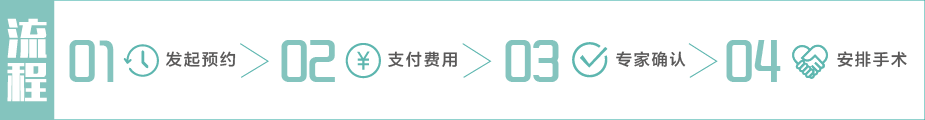
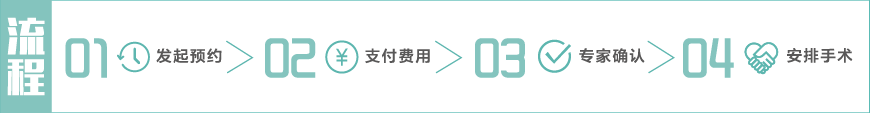
页面优化

diff --git a/themes/v5/css/hospital.css b/themes/v5/css/hospital.css
@@ -35,19 +35,20 @@
 .hinfo .more-desc>a,.hinfo .retract>a{color: #EFA429;}
 .hinfo .more-desc .fa,.hinfo .retract .fa{font-size: 18px;}
 .hinfo .decs-last,.hinfo .retract{display: none;}
-.container-title{font-size:24px;font-weight:bold;}
+.container-title{font-size:24px;}
 .dept-describe{border:1px solid #efefef;padding:10px;}
 .departments{padding: 10px;}
 .departments ul>li{float: right;}
 .departments .header{font-size: 24px;margin-top: 3px;color: #19aea5;}
 .departments ul>li>a{border-radius: 0;border: 1px solid #19aea5;margin: 0;min-width: 7em;text-align: center;}
 .departments ul>li>a:hover{border-color: #19aea5;background-color: #e0f1f2;}
-.departments ul>li.active>a,.departments ul>li.active>a:hover,.departments ul>li.active>a:focus{background-color: #19aea5;color: #fff;border-color: #19aea5;}
+.departments ul>li.active>a,.departments ul>li.active>a:hover,.departments ul>li.active>a:focus{background-color: #5ebfb8;color: #fff;border-color: #19aea5;}
 .departments .dept{border: 1px solid #ddd;padding: 5px 10px 10px;}
 .departments .tab-content .btn{margin-top: -10px;}
 .nav-tabs{border:none;}
 .divide-color-ddd{border-top:1px solid #ddd;}
-.dept-title{font-size:18px;font-weight:bold;}
+.dept-title{font-size:18px;}
+.flowChart{border: 1px solid #5ebfb8;padding: 10px 0 0}
 /*.departments{padding: 10px;}
 .departments h4{padding: 5px 25px;background-color: #b1dcd6;color: #19aea5;}
 .dept>a:hover{text-decoration: underline;color: #19aea5;}

diff --git a/themes/v5/js/home.js b/themes/v5/js/home.js
@@ -49,12 +49,12 @@ function setDoctorHtml(data, urlDoctorView) {
             var doctors = disease_category[x];
             for (var i = 0; i < doctors.length; i++) {
                 var doctor = doctors[i];
-                var contractedImg = doctor.isContracted == 1 ? '<div class="pull-right contracted-img"></div>' : '';
+                var contractedImg = doctor.isContracted == 1 ? '<div class="contracted-img"></div>' : '';
                 innerHtml += '<div class="col-md-3 " ><a target="_blank" href="' + urlDoctorView + doctor.id + '">' +
                         '<div class="expInfo text-center bg-white explist-border">' +
                         contractedImg +
                         '<div><img class="img100" src="' + doctor.imageUrl + '"/></div>' +
-                        '<div class="expName color-black strong">' + doctor.name + '</div>' +
+                        '<div class="expName color-black">' + doctor.name + '</div>' +
                         '<div class="expTitle">' + doctor.mTitle + ' ' + doctor.aTitle + '</div>' +
                         '<div class="expHospital mt30">' + doctor.hpName + '</div>' +
                         '<div class="mt10 color-black mb50">' + doctor.hpDeptName + '</div>' +

diff --git a/themes/v5/css/searchdoctor.css b/themes/v5/css/searchdoctor.css
@@ -1,12 +1,12 @@
 .img100{width: 100px;height: 100px;display: block;margin: 10px auto;border: 1px solid #e4e4e4;border-radius: 50%;}
 .department-name{background-color: #19aea5;height:65px;line-height:65px;font-size:16px;color: #fff;}
-.city-sick-title{border-left:5px solid #19aea5;padding-bottom: 3px;line-height:1.5em;padding-left: 5px;}
+.city-sick-title{border-left:5px solid #19aea5;line-height:1.5em;padding-left: 5px;}
 .city-sick-title a{margin-right:20px;display: inline-block;}
 .city-sick-title a:hover{cursor: pointer;}
 .disease-list{margin-top: 17px;}
 .border-gray{border:1px solid #ddd;}
 .color-gray{color:#9f9fa0;}
-.expert-list{padding:0px 5px 10px 5px;}
+.expert-list{padding:0px 10px 10px 10px;}
 .department-list{padding:0 15px 20px;}
 .department-list .department{padding-left: 10px;margin-top: 20px;}
 .department-list .department .dept-header{font-size: 15px;margin-bottom: 5px;}

diff --git a/themes/v5/css/home.css b/themes/v5/css/home.css
@@ -36,7 +36,8 @@
 .expert .nav-tabs>li>a,.expert .nav-tabs>li>a:hover{background-color: #efefef;}
 .expert .nav-tabs>li{width: 16.66666667%;}
 .expert .nav-tabs>li>a{margin-right: 0;}
-.contracted-img {margin-top: 40px;margin-right: -12px;width: 48px;height: 52px;background-image: url(../images/doctor/signDoctor.png);background-repeat: no-repeat;}
+.expert .expName{font-size: 15px;}
+.contracted-img {position: absolute;margin-top: 40px;right: 7px;width: 48px;height: 52px;background-image: url(../images/doctor/signDoctor.png);background-repeat: no-repeat;}
 .title{background:url(../images/home/home_wire.png) no-repeat;background-position:center 40px;margin-top:40px;}
 .title .title-lg{font-size:45px;color:#3973ac;letter-spacing:8px;}
 .title .title-sm{letter-spacing:10px;color:#3973ac;margin-top:-4px;}

diff --git a/themes/v5/css/user.css b/themes/v5/css/user.css
@@ -34,7 +34,9 @@ a.color-status:hover{cursor: pointer;}
 .bookinglist .table>thead>tr>td{line-height: 1.5em;padding: 10px 0;}
 .bookinglist .table>tbody>tr{border-bottom: 1px solid #eeefef;}
 .bookinglist .table>tbody>tr>td{vertical-align: middle;}
-@media (min-width: 768px){.modal-dialog.modal-sm {margin: 200px auto 30px;}}
+@media (min-width: 768px){#cancelOrder .modal-dialog.modal-sm {margin: 200px auto 30px;width: 400px;}}
+#cancelOrder .modal-dialog.modal-sm .modal-body{padding-bottom: 40px;}
+.pad8{padding: 10px 8px!important;}
 //.bookinglist .table>tbody>tr>td a{color: #31708f;}
 /**** bookingView ****/
 .bookingView .user-header{min-height:113px;padding-top:10px;}

diff --git a/themes/v5/css/main.css b/themes/v5/css/main.css
@@ -33,6 +33,7 @@ body {color: #333;letter-spacing: 1px;line-height: 1.5;font-size: 14px;font-fami
 .pl100{padding-left: 100px;}
 .pr0{padding-right: 0;}
 .pr10{padding-right: 10px;}
+.pr15{padding-right: 15px;}
 .pr20{padding-right: 20px;}
 .pr30{padding-right: 30px;}
 .pr40{padding-right: 40px;}

diff --git a/themes/v5/css/operation.css b/themes/v5/css/operation.css
@@ -49,3 +49,4 @@ strong{color:#333;}
 .ml10{margin-left:10px;}
 .zhitongcheBookingBtn{border-radius: 5px;}
 a:hover>.bg-green-5ebfb7,.zhitongcheBookingBtn:hover{background-color: rgba(94,191,184,0.7);}
+.ml-50{margin-left: -50px;}

diff --git a/themes/v5/css/mingyizhuyi.css b/themes/v5/css/mingyizhuyi.css
@@ -28,6 +28,7 @@
 .h400{height:400px;}
 .color-white{color:#fff;}
 .mingyizhuyi-content{line-height:34px;}
+.line2em{line-height: 2em;}
 .x {
     width: 70px;
     height: 70px;

diff --git a/themes/v5/views/hospital/view.php b/themes/v5/views/hospital/view.php
@@ -112,10 +112,10 @@ $this->htmlMetaDescription = mb_strlen($desc) > 70 ? mb_substr($desc, 0, 70, 'ut
                                 }
                                 echo '<div role="tabpanel" class="tab-pane ' . $active . '" id="' . $j . '">';
                                 foreach ($dept as $faculty) {
-                                    $description = $faculty->description =='' ? '暂无信息' : $faculty->description;
+                                    $description = $faculty->description == '' ? '暂无信息' : $faculty->description;
                                     echo '<div class="mt20 dept-describe">' .
                                     '<div class="dept-title">' . $faculty->name . '<div class="pull-right mt5"><button class="bookingBtn btn btn-yes pr30 pl30" data-hospital="' . $hName . '" data-dept="' . $faculty->name . '" data-hospitalid="' . $hid . '" data-deptid="' . $faculty->id . '" data-toggle="modal" data-target="#booking">预 约</button></div><div class="clearfix"></div></div>' .
-                                    '<div class="mt10 strong"><strong>科室介绍：</strong>' . $description . '</div>' .
+                                    '<div class="mt10"><span>科室介绍：</span>' . $description . '</div>' .
                                     '</div>';
                                 }
                                 echo '</div>';
@@ -126,7 +126,9 @@ $this->htmlMetaDescription = mb_strlen($desc) > 70 ? mb_substr($desc, 0, 70, 'ut
                     <?php } ?>
                 </div>
                 <div class="col-lg-3 sol-sm-4 col-xs-12">
-                    <img src="<?php echo $urlResImage; ?>hospital/flowChart.png">
+                    <div class="flowChart">
+                        <img src="<?php echo $urlResImage; ?>doctor/flowChart.png">
+                    </div>
                 </div>
             </div>
         </div>

diff --git a/themes/v5/views/site/pages/mingyizhuyi.php b/themes/v5/views/site/pages/mingyizhuyi.php
@@ -14,7 +14,7 @@ Yii::app()->clientScript->registerCssFile(Yii::app()->theme->baseUrl . "/css/min
             </div>
             <div class="row">
                 <div class="col-sm-2"><img class="mt55" src="<?php echo $urlResImage ?>aboutus/mingYiZhuYi-01.png"></div>
-                <div class="col-sm-10"><div class="ml30 mt55">“名医主义”是名医主刀旗下的医疗公益项目，希望通过整合全国医疗资源，借助资本力量和品牌影响力，为有手术需求的患者提供公益支持和帮助。名医主义的组织精神是仁爱自信 、乐观积极、感同身受。在大量的日常手术对接服务中，我们发现求医无门、支付无援的病患家庭，需要的不仅仅是温暖的祝愿，更需要一双有力的手，与他们携手攻坚克难。<br/>
+                <div class="col-sm-10"><div class="ml30 mt50 line2em">“名医主义”是名医主刀旗下的医疗公益项目，希望通过整合全国医疗资源，借助资本力量和品牌影响力，为有手术需求的患者提供公益支持和帮助。名医主义的组织精神是仁爱自信 、乐观积极、感同身受。在大量的日常手术对接服务中，我们发现求医无门、支付无援的病患家庭，需要的不仅仅是温暖的祝愿，更需要一双有力的手，与他们携手攻坚克难。<br/>
                         “做手术就找名医主刀，做手术遇到困难有名医主义。”这是名医企业体系中最重要的组成部分。期冀通过我们的平台，让全天下患者不仅可以好看病，更要看好病。</div></div>
                 <div class="col-sm-10 col-sm-offset-1 dashed-line"></div>
             </div>

diff --git a/themes/v5/views/booking/list.php b/themes/v5/views/booking/list.php
@@ -27,13 +27,13 @@ $bookinglist = $data->results;
             </div>
             <div class="bookinglist border-green mt10">
                 <table class="table">
-                    <thead class="text-center">
+                    <thead>
                         <tr>
-                            <td>订单号</td>
-                            <td>就诊人</td>
-                            <td>意向就诊专家</td>
-                            <td>状态</td>
-                            <td>操作</td>
+                            <td class="text-center">订单号</td>
+                            <td class="text-center">就诊人</td>
+                            <td class="text-center">意向就诊专家</td>
+                            <td class="pad8">状态</td>
+                            <td class="text-center">操作</td>
                         </tr>
                     </thead>
                     <tbody>
@@ -82,9 +82,9 @@ $bookinglist = $data->results;
                 </div>
                 <div class="modal-body">
                     <h4 class="text-center color-green">您好！您确认要取消订单吗？</h4>
-                    <div class="text-center mt20">
-                        <a class="btn btn-default" data-dismiss="modal">取消</a>
-                        <a id="cancelSubmit" class="btn btn-yes">确认</a>
+                    <div class="text-center mt40">
+                        <a class="btn btn-default mr20 pl20 pr20" data-dismiss="modal">取消</a>
+                        <a id="cancelSubmit" class="btn btn-yes pl20 pr20">确认</a>
                     </div>
                 </div>
             </div>
